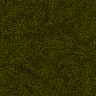
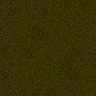
carpets alignment fixed

diff --git a/neon/chunkloader.cs b/neon/chunkloader.cs
@@ -85,14 +85,16 @@ namespace neon
                         world.AddObject(man);
                 }
 
-                int pathcount = rnd.Next(1, 3);
+                int pathcount = rnd.Next(5, 15);
 
                 for(int i=0; i<pathcount; i++)
                 {
-                    double tmpx = xOffset + rnd.NextDouble() * chunkSize;
-                    double tmpy = yOffset + rnd.NextDouble() * chunkSize;
+                    double tmpx = xOffset + rnd.Next(0, (int)Math.Floor(chunkSize/Game1.PixelScale))
+                        *Game1.PixelScale;
+                    double tmpy = yOffset + rnd.Next(0, (int)Math.Floor(chunkSize / Game1.PixelScale))
+                        * Game1.PixelScale;
 
-                    MapObject path = new GroundPath(contentManager, (float)tmpx, (float)tmpy, world, 0);
+                    MapObject path = new GroundPath(contentManager, (float)tmpx, (float)tmpy, world, rnd.Next(0, 2));
 
                     world.AddObject(path);
                 }

diff --git a/neon/chunk.cs b/neon/chunk.cs
@@ -306,14 +306,13 @@ namespace neon
 
         public void Draw(SpriteBatch spriteBatch)
         {
-            int offX = -(Math.Abs(ScreenX) % (sand.Width * Game1.PixelScale));
-            int offY = -(Math.Abs(ScreenY) % (sand.Height * Game1.PixelScale));
+            int offX = -(Math.Abs(ScreenX)%(sand.Width*Game1.PixelScale));
+            int offY = -(Math.Abs(ScreenY) % (sand.Height*Game1.PixelScale));
 
             for (int i = offX; i < 1920; i += Game1.PixelScale * sand.Width)
                  for (int j = offY; j < 1080; j += Game1.PixelScale * sand.Height)
                      spriteBatch.Draw(sand, new Vector2(i, j), null, Color.White,
                          0f, new Vector2(0,0), Game1.PixelScale, SpriteEffects.None, 0f);
-            
 
             int darkX = (int)(Hero.Position.X * UnitSize + ScreenX)-dark.Width/2;
             int darkY = (int)(Hero.Position.Y * UnitSize + ScreenY)-dark.Height/2;

diff --git a/neon/carpets.cs b/neon/carpets.cs
@@ -24,7 +24,8 @@ namespace neon
 
         public override void Draw(SpriteBatch spriteBatch, int x, int y, Color color, float depth)
         {
-            base.Draw(spriteBatch, x, y, color, depth-0.099999f);
+            Texture2D cf = Texture.GetCurrentFrame();
+            base.Draw(spriteBatch, x+cf.Width*Game1.PixelScale/2, y+cf.Height*Game1.PixelScale, color, depth-0.099999f);
         }
     }
 }
